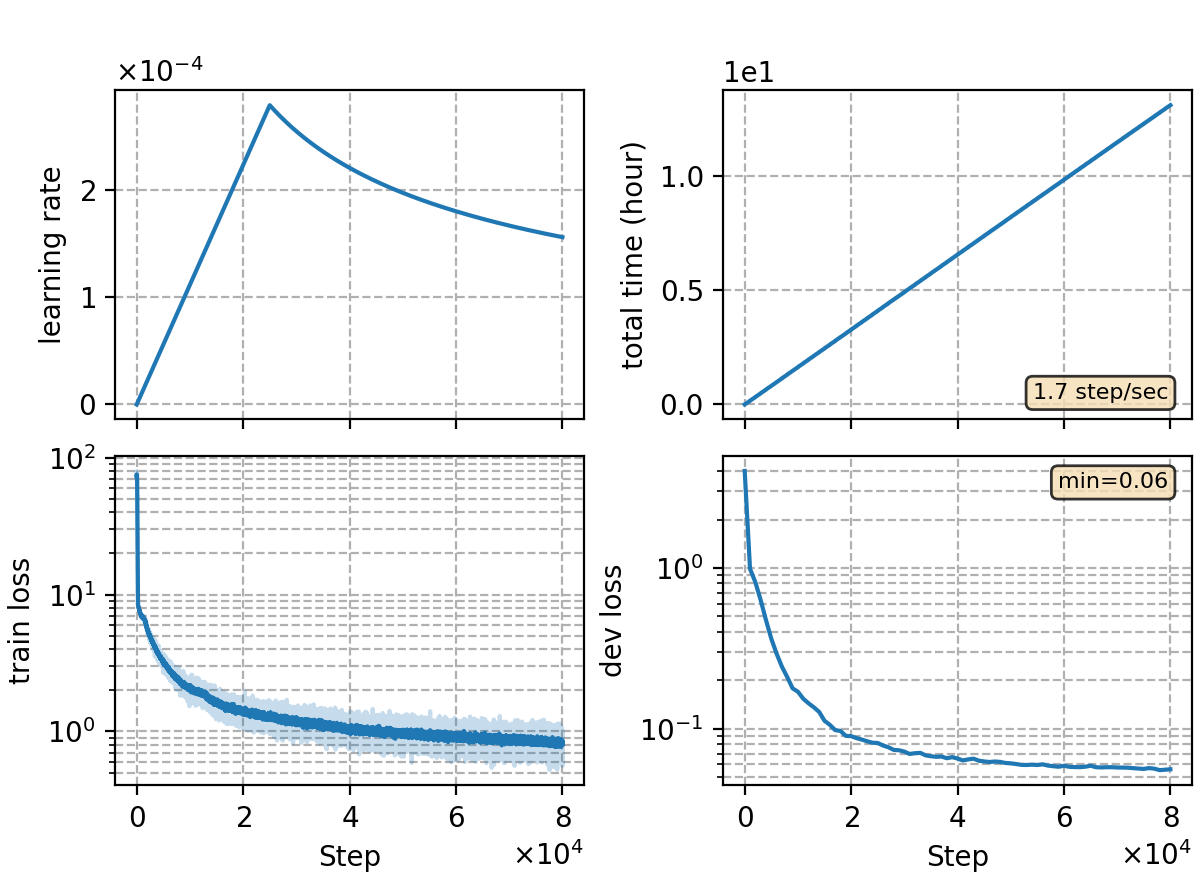
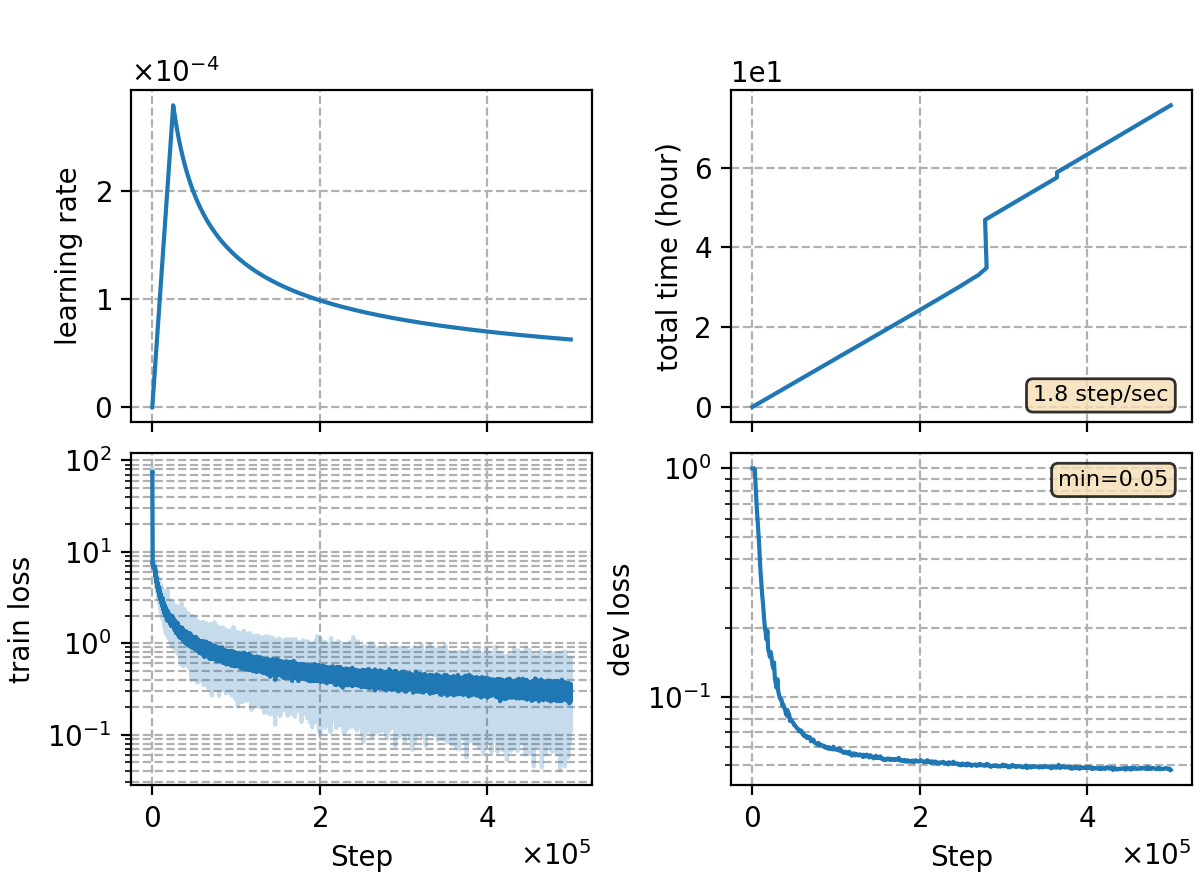
[resule][aishell-1] update ctc-v1 results

diff --git a/egs/aishell/exp/ctc-v1/readme.md b/egs/aishell/exp/ctc-v1/readme.md
@@ -3,25 +3,26 @@
 **This part is auto-generated, add your details in Appendix**
 
 * \# of parameters (million): 79.50
-* GPU info \[8\]
-  * \[8\] NVIDIA GeForce RTX 3090
+* GPU info \[6\]
+  * \[6\] NVIDIA GeForce RTX 3090
 
 ### Notes
 
-* CTC experiment, using the same encoder as `rnnt/rnnt-v15`
+* same encoder as `rnnt-v15`
+* batch size of 128 with 500k iters.
 
 ### Result
 ```
-dev     %SER 39.52 | %CER 5.13 [ 10537 / 205341, 184 ins, 174 del, 10179 sub ]
-test    %SER 42.13 | %CER 5.78 [ 6058 / 104765, 115 ins, 135 del, 5808 sub ]
+dev     %SER 36.97 | %CER 4.65 [ 9544 / 205341, 167 ins, 144 del, 9233 sub ]
+test    %SER 39.62 | %CER 5.21 [ 5462 / 104765, 88 ins, 125 del, 5249 sub ]
 
-+lm-v5 trans char 5-gram a=0.2
-dev     %SER 37.45 | %CER 4.89 [ 10044 / 205341, 161 ins, 191 del, 9692 sub ]
-test    %SER 39.09 | %CER 5.39 [ 5645 / 104765, 82 ins, 156 del, 5407 sub ]
++lm-v5 5g char 0.25
+dev     %SER 35.08 | %CER 4.49 [ 9211 / 205341, 137 ins, 165 del, 8909 sub ]
+test    %SER 37.25 | %CER 4.95 [ 5184 / 104765, 73 ins, 142 del, 4969 sub ]
 
-+lm-v6 trans word 3-gram a=0.28 b=-0.5
-dev     %SER 34.93 | %CER 4.63 [ 9498 / 205341, 159 ins, 203 del, 9136 sub ]
-test    %SER 36.51 | %CER 5.08 [ 5327 / 104765, 76 ins, 162 del, 5089 sub ]
++lm-v6 3g word 0.3
+dev     %SER 33.05 | %CER 4.25 [ 8732 / 205341, 136 ins, 168 del, 8428 sub ]
+test    %SER 35.37 | %CER 4.72 [ 4948 / 104765, 71 ins, 143 del, 4734 sub ]
 ```
 
 |     training process    |

diff --git a/egs/aishell/README.md b/egs/aishell/README.md
@@ -53,7 +53,7 @@ Evaluated by CER (%)
 | EXP ID                               | dev  | test | notes                                           |
 | ------------------------------------ |:----:|:----:| ----------------------------------------------- |
 | [rnnt](exp/rnnt/rnnt-v19-torchaudio) | 4.25 | 4.47 | best result, rescored with word lm              |
-| [ctc](exp/ctc-v1)                    | 4.63 | 5.08 | ctc rescored with word lm, lm weights not tuned |
+| [ctc](exp/ctc-v1)                    | 4.25 | 5.72 | ctc rescored with word lm                       |
 
 ### Ablation study
 
@@ -65,9 +65,9 @@ The acoustic model is based on Chinese characters. The char-based lm is integrat
 
 | Setting                             | dev  | test |
 | ----------------------------------- |:----:|:----:|
-| no lm                               | 5.13 | 5.78 |
-| 5-gram char lm [LINK](exp/lm/lm-v5) | 4.89 | 5.39 |
-| 3-gram word lm [LINK](exp/lm/lm-v6) | 4.63 | 5.08 |
+| no lm                               | 4.65 | 5.21 |
+| 5-gram char lm [LINK](exp/lm/lm-v5) | 4.49 | 4.95 |
+| 3-gram word lm [LINK](exp/lm/lm-v6) | 4.25 | 4.75 |
 
 RNN-T model: [LINK](exp/rnnt/rnnt-v19-torchaudio)
 
